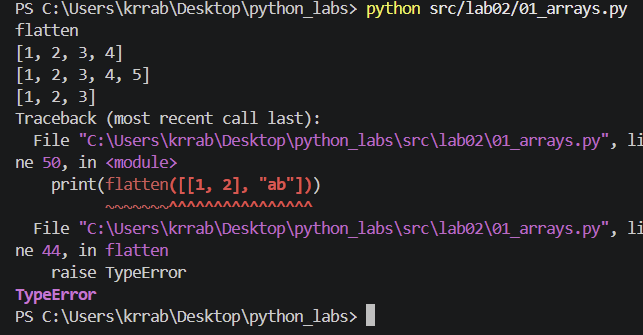
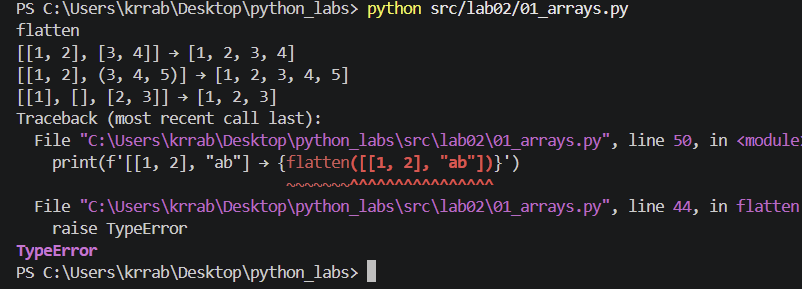
upd lab02

Changed region(s): [[0.0, 0.0, 1.0, 0.9965]]

diff --git a/src/lab02/01_arrays.py b/src/lab02/01_arrays.py
@@ -28,10 +28,10 @@ def unique_sorted(nums: list[float | int]) -> list[float | int]:
     return res
 
 # print('unique_sorted')
-# print(unique_sorted([3, 1, 2, 1, 3]))
-# print(unique_sorted([]))
-# print(unique_sorted([-1, -1, 0, 2, 2]))
-# print(unique_sorted([1.0, 1, 2.5, 2.5, 0]))
+# print(f'[3, 1, 2, 1, 3] → {unique_sorted([3, 1, 2, 1, 3])}')
+# print(f'[] → {unique_sorted([])}')
+# print(f'[-1, -1, 0, 2, 2] → {unique_sorted([-1, -1, 0, 2, 2])}')
+# print(f'[1.0, 1, 2.5, 2.5, 0] → {unique_sorted([1.0, 1, 2.5, 2.5, 0])}')
 
 
 def flatten(mat: list[list | tuple]) -> list:
@@ -44,8 +44,8 @@ def flatten(mat: list[list | tuple]) -> list:
             raise TypeError
     return res
 print('flatten')
-print(flatten([[1, 2], [3, 4]]))
-print(flatten([[1, 2], (3, 4, 5)]))
-print(flatten([[1], [], [2, 3]]))
-print(flatten([[1, 2], "ab"]))
+print(f'[[1, 2], [3, 4]] → {flatten([[1, 2], [3, 4]])}')
+print(f'[[1, 2], (3, 4, 5)] → {flatten([[1, 2], (3, 4, 5)])}')
+print(f'[[1], [], [2, 3]] → {flatten([[1], [], [2, 3]])}')
+print(f'[[1, 2], "ab"] → {flatten([[1, 2], "ab"])}')
 

diff --git a/README.md b/README.md
@@ -96,6 +96,7 @@ def min_max(nums: list[float | int]) -> tuple[float | int, float | int]:
         if nums[i]>a:
             a=nums[i]
     return b, a
+    
 print('min_max')
 print(f'[3, -1, 5, 5, 0] → {min_max([3, -1, 5, 5, 0])}')
 print(f'[42] → {min_max([42])}')
@@ -122,10 +123,10 @@ def unique_sorted(nums: list[float | int]) -> list[float | int]:
     return res
 
 print('unique_sorted')
-print(unique_sorted([3, 1, 2, 1, 3]))
-print(unique_sorted([]))
-print(unique_sorted([-1, -1, 0, 2, 2]))
-print(unique_sorted([1.0, 1, 2.5, 2.5, 0]))
+print(f'[3, 1, 2, 1, 3] → {unique_sorted([3, 1, 2, 1, 3])}')
+print(f'[] → {unique_sorted([])}')
+print(f'[-1, -1, 0, 2, 2] → {unique_sorted([-1, -1, 0, 2, 2])}')
+print(f'[1.0, 1, 2.5, 2.5, 0] → {unique_sorted([1.0, 1, 2.5, 2.5, 0])}')
 ```
 
 ![скрин](./images/lab02/01_arrays_unique_sorted.png)
@@ -143,11 +144,12 @@ def flatten(mat: list[list | tuple]) -> list:
         else:
             raise TypeError
     return res
+
 print('flatten')
-print(flatten([[1, 2], [3, 4]]))
-print(flatten([[1, 2], (3, 4, 5)]))
-print(flatten([[1], [], [2, 3]]))
-print(flatten([[1, 2], "ab"]))
+print(f'[[1, 2], [3, 4]] → {flatten([[1, 2], [3, 4]])}')
+print(f'[[1, 2], (3, 4, 5)] → {flatten([[1, 2], (3, 4, 5)])}')
+print(f'[[1], [], [2, 3]] → {flatten([[1], [], [2, 3]])}')
+print(f'[[1, 2], "ab"] → {flatten([[1, 2], "ab"])}')
 ```
 
 ![скрин](./images/lab02/01_arrays_flatten.png)
@@ -159,3 +161,5 @@ print(flatten([[1, 2], "ab"]))
 Если матрица «рваная» (строки разной длины) — `ValueError`.
 
 ![скрин](./)
+
+
